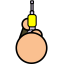
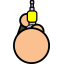
fix Grenade & Bullet on keybroad operation change

Changed region(s): [[0.1875, 0.0, 0.7812, 1.0]]

diff --git a/src/scenes/MainScene.java b/src/scenes/MainScene.java
@@ -52,6 +52,7 @@ public class MainScene extends Scene {
 
     public MainScene(SceneController sceneController) {
         super(sceneController);
+        Global.ammoState = 1;
         this.allObjects = new ArrayList<GameObject>();
         this.hpFrameRenderer = new Renderer(0, new int[0], 0, ImagePath.HP[0]);
         this.hpRenderer = new Renderer(0, new int[0], 0, ImagePath.HP[2]); // HP 第三張圖是 debug 用
@@ -181,17 +182,52 @@ public class MainScene extends Scene {
 
     //子彈測試更新中
     public void ammoUpdate() {
+        if (Global.ammoState == 2) {
+            boolean create = true;
+            if (this.ammos == null) {
+                Ammo ammo = new Ammo("circle", this.actor.getCenterX() - Global.UNIT_MIN, this.actor.getCenterY() - Global.UNIT_MIN, this.actor, 2);
+                this.ammos.add(ammo);
+                this.allObjects.add(ammo);
+                ammo.setAllObjects(this.allObjects);
+            } else {
+                for (int i = 0; i < this.ammos.size(); i++) {
+                    if (this.ammos.get(i).getIsShootOut() == false) {
+                        if (this.ammos.get(i).getShootMode().getType().equals("Bullet")) {
+                            this.ammos.get(i).selectKind(2);
+                            this.ammos.get(i).setAllObjects(this.allObjects);
+                        }
+                        this.ammos.get(i).setIsShootOut(create);
+                        this.ammos.get(i).setNewStart();
+                        create = false;
+                        break;
+                    } else {
+                        continue;
+                    }
+                }
+                if (create) {
+                    Ammo ammo = new Ammo("circle", this.actor.getCenterX() - Global.UNIT_MIN, this.actor.getCenterY() - Global.UNIT_MIN, this.actor, 2);
+                    this.ammos.add(ammo);
+                    this.allObjects.add(ammo);
+                    ammo.setAllObjects(this.allObjects);
+                }
+            }
+            Global.ammoState++;
+        }
         if (Global.mouseState) {
             if (this.stateChage.isTrig()) {
                 boolean create = true;
                 if (this.ammos == null) {
-                    Ammo ammo = new Ammo("circle", this.actor.getCenterX() - Global.UNIT_MIN, this.actor.getCenterY() - Global.UNIT_MIN, this.actor, 2);
+                    Ammo ammo = new Ammo("circle", this.actor.getCenterX() - Global.UNIT_MIN, this.actor.getCenterY() - Global.UNIT_MIN, this.actor, 1);
                     this.ammos.add(ammo);
                     this.allObjects.add(ammo);
                     ammo.setAllObjects(this.allObjects);
                 } else {
                     for (int i = 0; i < this.ammos.size(); i++) {
                         if (this.ammos.get(i).getIsShootOut() == false) {
+                            if (this.ammos.get(i).getShootMode().getType().equals("Grenade")) {
+                                this.ammos.get(i).selectKind(1);
+                                this.ammos.get(i).setAllObjects(this.allObjects);
+                            }
                             this.ammos.get(i).setIsShootOut(create);
                             this.ammos.get(i).setNewStart();
                             create = false;
@@ -201,7 +237,7 @@ public class MainScene extends Scene {
                         }
                     }
                     if (create) {
-                        Ammo ammo = new Ammo("circle", this.actor.getCenterX() - Global.UNIT_MIN, this.actor.getCenterY() - Global.UNIT_MIN, this.actor, 2);
+                        Ammo ammo = new Ammo("circle", this.actor.getCenterX() - Global.UNIT_MIN, this.actor.getCenterY() - Global.UNIT_MIN, this.actor, 1);
                         this.ammos.add(ammo);
                         this.allObjects.add(ammo);
                         ammo.setAllObjects(this.allObjects);
@@ -305,6 +341,13 @@ public class MainScene extends Scene {
         @Override
         public void keyReleased(int commandCode, long trigTime) {
             stopRule(commandCode);
+            switch (commandCode) {
+                case Global.KEY_G:
+                    MainScene.this.stateChage.start();
+                    MainScene.this.actor.getRenderer().setState(0);
+                    Global.ammoState = 2;
+                    break;
+            }
         }
 
         private void setDirAndPressedStatus(Actor actor, int dir, boolean status) {
@@ -381,14 +424,15 @@ public class MainScene extends Scene {
                         MainScene.this.stateChage.click();
                     }
                     break;
+                case Global.KEY_G:
+                    MainScene.this.stateChage.stop();
+                    MainScene.this.actor.getRenderer().setState(1);
+                    break;
             }
         }
 
         @Override
         public void keyTyped(char c, long trigTime) {
-            if (c == Global.KEY_G) {
-                System.out.println("!!!!");
-            }
         }
 
     }

diff --git a/src/gameobj/ammo/Grenade.java b/src/gameobj/ammo/Grenade.java
@@ -26,6 +26,7 @@ public class Grenade extends ShootMode {
     private Renderer rendererEffect;//爆炸特效圖
     private Delay effectDelay;
     private int delayCount;
+    private int attackRange;
     private ArrayList<GameObject> allObjects;
     private GameObject self;
 
@@ -47,6 +48,12 @@ public class Grenade extends ShootMode {
         setCountdown(0);
         setMoveDistance(3);
         setEffectDelay();
+        setAttackRange(150);
+        setType("Grenade");
+    }
+
+    private void setAttackRange(int attackRange) {
+        this.attackRange = attackRange;
     }
 
     public void setVectorMove() {
@@ -91,7 +98,7 @@ public class Grenade extends ShootMode {
 
     private void setEffectDelay() {
         if (this.effectDelay == null) {
-            this.effectDelay = new Delay(10);
+            this.effectDelay = new Delay(2);
             this.effectDelay.stop();
             this.delayCount = 0;
         }
@@ -114,17 +121,9 @@ public class Grenade extends ShootMode {
     }
 
     private void setAerageSpeed() {
-        boolean isFixedLength = false;
         if (this.averageSpeed == null) {
-            if (Math.sqrt(Math.pow(getSelf().getCenterX() - Global.mapMouseX, 2) + Math.pow(getSelf().getCenterY() - Global.mapMouseY, 2)) > 100) {
-                isFixedLength = true;
-            }
-            this.averageSpeed = new AverageSpeed(getSelf().getCenterX(), getSelf().getCenterY(), Global.mapMouseX, Global.mapMouseY, 50, isFixedLength);
+            this.averageSpeed = new AverageSpeed(getSelf().getCenterX(), getSelf().getCenterY(), Global.mapMouseX, Global.mapMouseY, 50, false);
         }
-        if (Math.sqrt(Math.pow(getStart().getCenterX() - Global.mapMouseX, 2) + Math.pow(getStart().getCenterY() - Global.mapMouseY, 2)) > 100) {
-            isFixedLength = true;
-        }
-        this.averageSpeed.isFixedLength(isFixedLength);
         this.averageSpeed.setCenterX(getStart().getCenterX());//被給予start的centerX
         this.averageSpeed.setCenterY(getStart().getCenterY());//被給予start的centerY
         this.averageSpeed.setGoalCenterX(Global.mapMouseX);//直接拿目標的x
@@ -143,7 +142,7 @@ public class Grenade extends ShootMode {
         if (this.getMoveDelay().isTrig()) {
             float dx = this.averageSpeed.offsetDX();
             float dy = this.averageSpeed.offsetDY();
-            this.vecterMove.newOffset(dx * getMoveDistance() * 5, dy * getMoveDistance() * 5);
+            this.vecterMove.newOffset(dx * getMoveDistance() * 1.5f, dy * getMoveDistance() * 1.5f);
             if (getCountdown() >= 0 && getCountdown() < 3) {
                 this.plusMoveDistance();
             } else if (getCountdown() >= 3) {
@@ -154,7 +153,7 @@ public class Grenade extends ShootMode {
                 if (this.delayCount == 0) {
                     for (int i = 0; i < this.allObjects.size(); i++) {
                         if (Math.sqrt(Math.pow(this.allObjects.get(i).getCenterX() - getSelf().getCenterX(), 2)
-                                + Math.pow(this.allObjects.get(i).getCenterY() - getSelf().getCenterY(), 2)) < 150) {
+                                + Math.pow(this.allObjects.get(i).getCenterY() - getSelf().getCenterY(), 2)) < this.attackRange) {
                             if (this.allObjects.get(i).getType().equals("Actor")) {
                                 continue;
                             }
@@ -184,10 +183,10 @@ public class Grenade extends ShootMode {
             this.renderer.paint(g);
         } else {
             this.rendererEffect.paint(g,
-                    (int) getSelf().getCenterX() - 150,
-                    (int) getSelf().getCenterY() + 150,
-                    (int) getSelf().getCenterX() + 150,
-                    (int) getSelf().getCenterY() - 150,
+                    (int) getSelf().getCenterX() - this.attackRange,
+                    (int) getSelf().getCenterY() + this.attackRange,
+                    (int) getSelf().getCenterX() + this.attackRange,
+                    (int) getSelf().getCenterY() - this.attackRange,
                     (this.delayCount % 5) * 150,
                     (this.delayCount / 5) * 150,
                     (this.delayCount % 5) * 150 + 150,

diff --git a/src/gameobj/ammo/ShootMode.java b/src/gameobj/ammo/ShootMode.java
@@ -30,10 +30,13 @@ public abstract class ShootMode {
     private float actMoveSpeed;
     //自己對目標的移動控制end
 
+    private String type;
+
     public ShootMode(GameObject start, float moveSpeed) {
         setStart(start);
         setAngle();
         setMoveSpeedDetail(moveSpeed);
+        setType("");
     }
 
     public void setStart(GameObject start) {
@@ -42,6 +45,14 @@ public abstract class ShootMode {
 
     public GameObject getStart() {
         return this.start;
+    }
+
+    public void setType(String type) {
+        this.type = type;
+    }
+
+    public String getType() {
+        return this.type;
     }
 
     //移動delay控制
@@ -60,7 +71,7 @@ public abstract class ShootMode {
         }
         return range;
     }
-    
+
     public void setMoveSpeed(float moveSpeed) {
         this.moveSpeed = limitRange(moveSpeed);
         this.actMoveSpeed = this.moveSpeed;
@@ -75,7 +86,7 @@ public abstract class ShootMode {
         return this.moveDelay;
     }
     //移動delay控制end
-    
+
     //角度計算
     public void setAngle() {
         if (this.angle == null) {
@@ -91,8 +102,11 @@ public abstract class ShootMode {
     public double getAngle() {
         return this.angle.getAngle();
     }
+
     //角度計算end
+
     public abstract void setNewStart();
+
     public abstract void setAllObject(ArrayList<GameObject> list);
 
     public abstract boolean update();

diff --git a/src/gameobj/Actor.java b/src/gameobj/Actor.java
@@ -57,7 +57,6 @@ public class Actor extends GameObject {
     }
 
     //位置資訊end
-
     //角度計算
     public void setAngle() {
         if (this.angle == null) {
@@ -101,6 +100,10 @@ public class Actor extends GameObject {
     public float getMoveSpeed() {
         return this.moveSpeed;
     }//取得目前的速度設定
+
+    public RendererToRotate getRenderer() {
+        return this.rotateRenderer;
+    }
     //角色移動相關資訊end
 
     public void setStand(boolean isStand) {
@@ -175,7 +178,6 @@ public class Actor extends GameObject {
 //////////////////////////////////////////////////////////////
 //        this.moveDistance = 10;
 //////////////////////////////////////////////////////////////
-
 //    public void setHaveRifle(boolean haveRifle) {
 //        this.haveRifle = haveRifle;
 //    }
@@ -199,7 +201,6 @@ public class Actor extends GameObject {
 //    public boolean getHaveMortar() {
 //        return this.haveMortar;
 //    }
-
 //    private void setMoveDistance(int moveDistance) {
 //        this.moveDistance = moveDistance;
 //    }

diff --git a/src/gameobj/ammo/Ammo.java b/src/gameobj/ammo/Ammo.java
@@ -33,7 +33,7 @@ public class Ammo extends GameObject {
         setStart(start);
         selectKind(kind);
         setIsShootOut(true);
-        super.paintPriority = 1; // 畫圖順序僅次於主角，此順序可討論
+        super.paintPriority = 0; // 畫圖順序僅次於主角，此順序可討論
     }
 
     public void selectKind(int kind) {
@@ -42,9 +42,13 @@ public class Ammo extends GameObject {
                 this.shootMode = new Bullet(this, getStart(), 60, ImagePath.BULLET);
                 break;
             case 2:
-                this.shootMode = new Grenade(this, getStart(), 60, ImagePath.GRENADE);
+                this.shootMode = new Grenade(this, getStart(), 59, ImagePath.GRENADE);
                 break;
         }
+    }
+
+    public ShootMode getShootMode() {
+        return this.shootMode;
     }
 
     public void setStart(GameObject start) {

diff --git a/src/util/Global.java b/src/util/Global.java
@@ -12,7 +12,7 @@ package util;
 public class Global {
 
     // Debug Mode
-    public static final boolean IS_DEBUG = true;
+    public static final boolean IS_DEBUG = false;
 
     public static void log(String str) {
         if (IS_DEBUG) {
@@ -58,7 +58,7 @@ public class Global {
     //槍的模式
     public static final int KEY_1 = 30;
     public static final int KEY_2 = 5;
-    public static final char KEY_G = 'G';
+    public static final int KEY_G = -1;
     // 步伐
     public static final int[] STEPS_WALK_NORMAL = {0, 1, 2, 1};
     public static final int[] STEPS_WALK_SHORT = {0, 2};
@@ -95,6 +95,8 @@ public class Global {
     public static float mapMouseY;
     //滑鼠狀態
     public static boolean mouseState;
+    //Ammo切換
+    public static int ammoState;
     //敵人進入view聲效控制
     public static boolean enemyAudio;
     // HP 圖案資訊

diff --git a/src/controllers/ImagePath.java b/src/controllers/ImagePath.java
@@ -22,7 +22,7 @@ public class ImagePath {
     public static final String[] BACKGROUND = {ImagePath.ROOT + "/map.png"};
 
     public static final String[] BARRIER = {ImagePath.ROOT + "/barrier.png"};
-    public static final String[] ACTOR1 = {ImagePath.ROOT + "/selfActor.png", ImagePath.ROOT + "/clawsmark.png"};
+    public static final String[] ACTOR1 = {ImagePath.ROOT + "/selfActor.png", ImagePath.ROOT + "/selfActor_grenade.png"};
     public static final String[] BULLET = {ImagePath.ROOT + "/fire_start.png", ImagePath.ROOT + "/bullet_fire_small.png"};
     public static final String[] GRENADE = {ImagePath.ROOT + "/grenade_1.png"};
     public static final String BOOM_CONTINUE = ImagePath.ROOT + "/boom_continue.png";

diff --git a/src/gameobj/ammo/Bullet.java b/src/gameobj/ammo/Bullet.java
@@ -38,6 +38,7 @@ public class Bullet extends ShootMode {
         this.rendererEffectDlay.start();
         this.averageSpeed = new AverageSpeed(self.getCenterX(), self.getCenterY(), Global.mapMouseX, Global.mapMouseY, 97, true);//子彈的移動速度
         setCount(0);
+        setType("Bullet");
     }
 
     public void setVectorMove() {

diff --git a/src/shootinggame/ShootingGame.java b/src/shootinggame/ShootingGame.java
@@ -36,7 +36,7 @@ public class ShootingGame {
                 .initListener(commands)
                 .enableMouseTrack(gi)
                 .enableKeyboardTrack(gi)
-                .keyTypedMode().trackChar()
+//                .keyTypedMode().trackChar()
                 .keyCleanMode()
                 .gen();
 

diff --git a/src/util/AverageSpeed.java b/src/util/AverageSpeed.java
@@ -28,7 +28,7 @@ public class AverageSpeed {
         setCenterY(centerY);
         setGoalCenterX(goalCenterX);
         setGoalCenterY(goalCenterY);
-        isFixedLength(true);
+        isFixedLength(isFixedLength);
         setLength(100f);
         SlopeValue();
         setMoveSpeed(moveSpeed);
